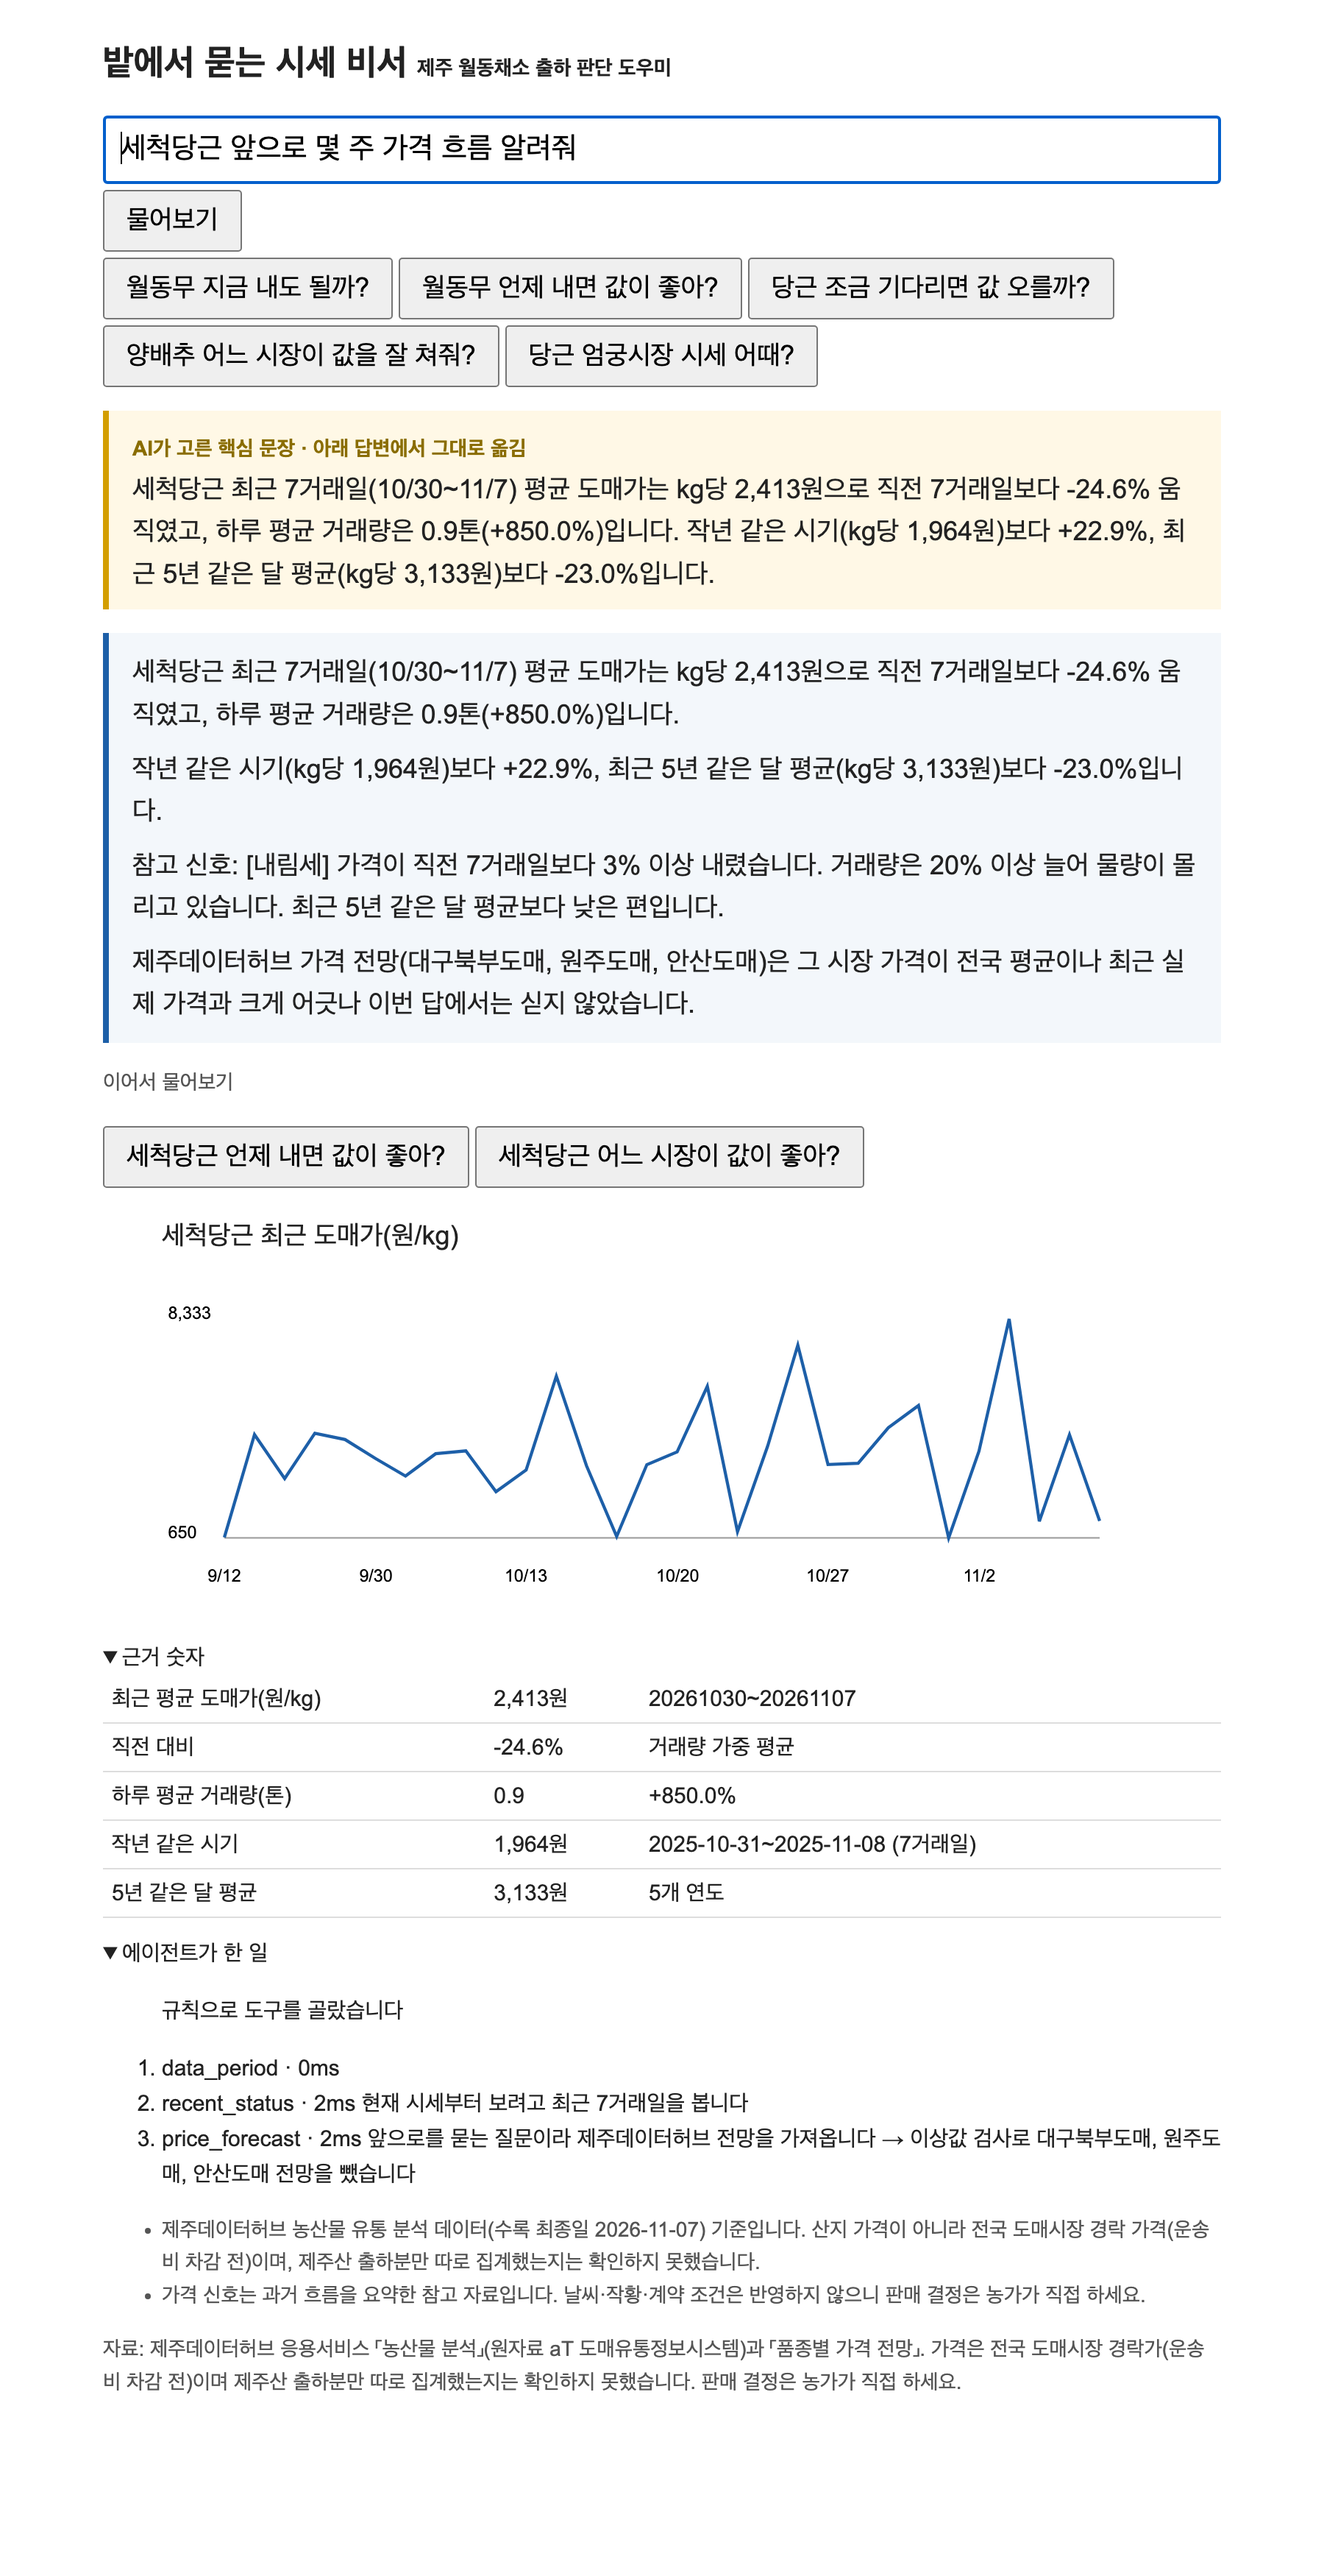
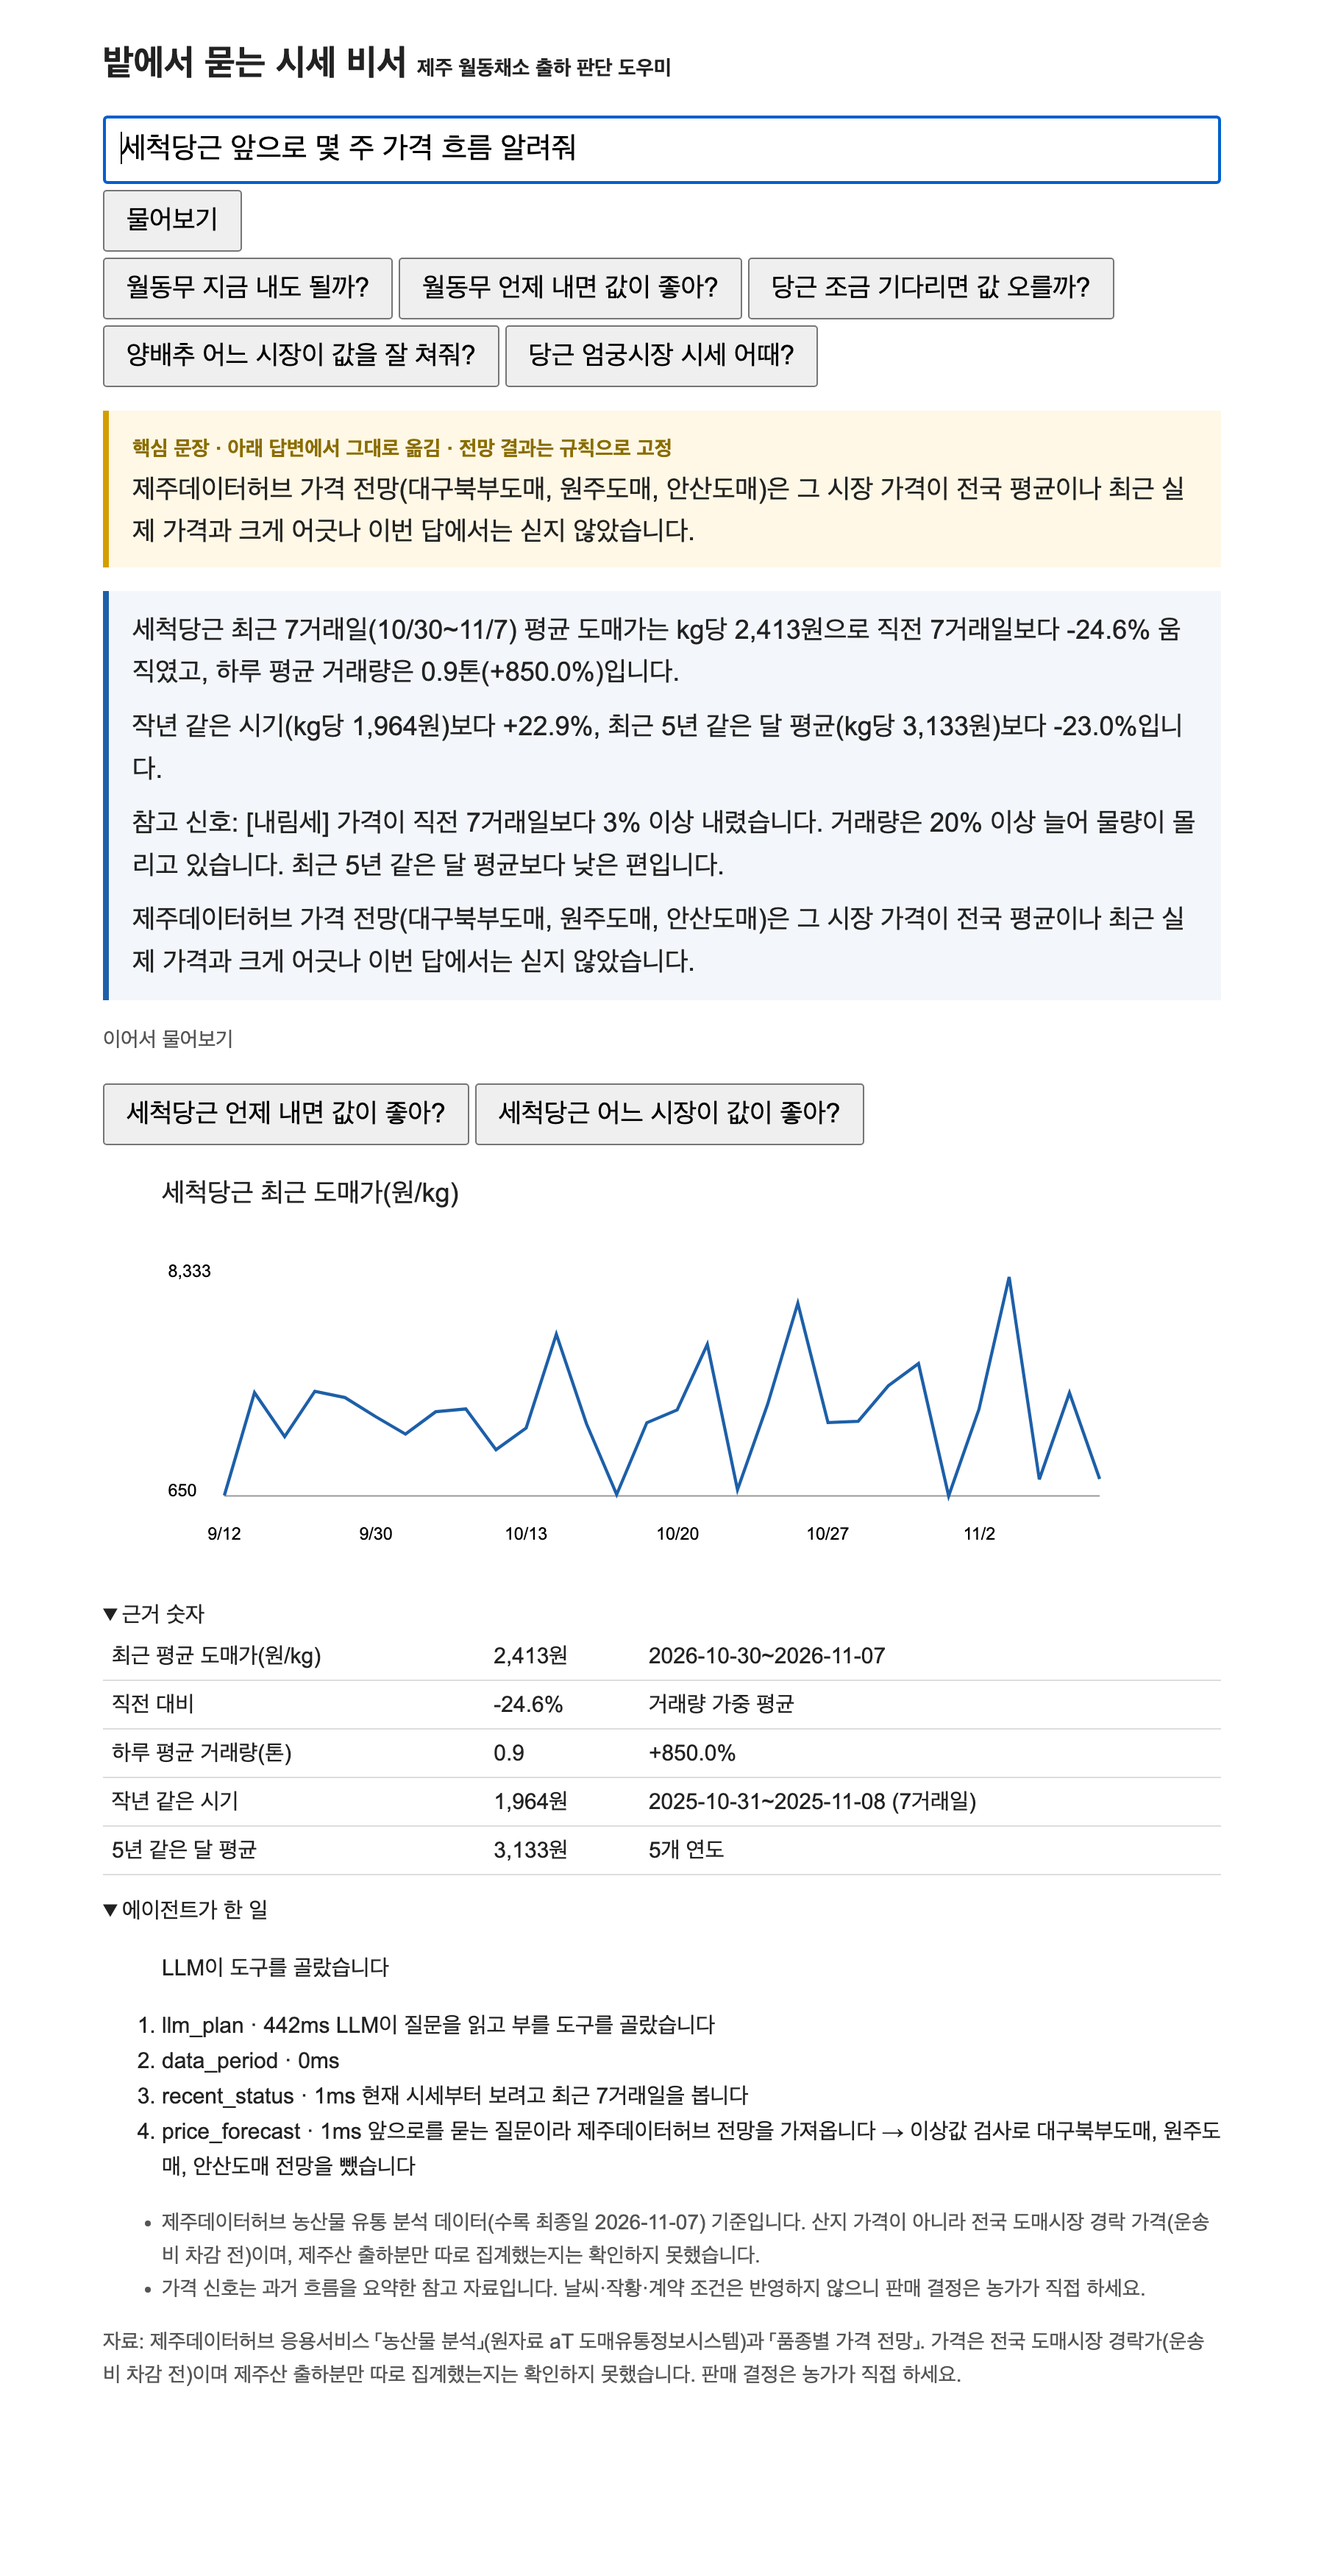
근거 표 기간을 YYYY-MM-DD로 통일, 그림 1·2를 권장 구성(llm+gemma4 31B)으로 다시 캡처

diff --git a/jeju_agent/agent.py b/jeju_agent/agent.py
@@ -289,6 +289,11 @@ def _josa(word: str, pair: str) -> str:
     return word + (pair[0] if has else pair[1])
 
 
+def _iso(s: str) -> str:
+    s = s.replace("-", "")
+    return f"{s[:4]}-{s[4:6]}-{s[6:8]}"
+
+
 def _ymd(s: str) -> str:
     s = s.replace("-", "")
     return f"{int(s[4:6])}/{int(s[6:8])}"
@@ -357,7 +362,7 @@ def answer(question: str) -> Result:
                              f"최근 {st['month_avg_n']}년 같은 달 평균(kg당 {_won(st['month_avg_5y'])})보다 {_pc(st['vs_5y_pct'])}입니다.")
             lines.append(f"참고 신호: [{sg['level']}] {sg['reason']}")
             res.evidence += [
-                ["최근 평균 도매가(원/kg)", _won(st["cur_price"]), f"{st['cur_from']}~{st['cur_to']}"],
+                ["최근 평균 도매가(원/kg)", _won(st["cur_price"]), f"{_iso(st['cur_from'])}~{_iso(st['cur_to'])}"],
                 ["직전 대비", _pc(st["price_chg_pct"]), "거래량 가중 평균"],
                 ["하루 평균 거래량(톤)", f"{st['cur_vol_per_day']:,.1f}", _pc(st["vol_chg_pct"])],
                 ["작년 같은 시기", _won(st.get("ly_price")), f"{st.get('ly_from')}~{st.get('ly_to')} ({st.get('ly_days')}거래일)"],
